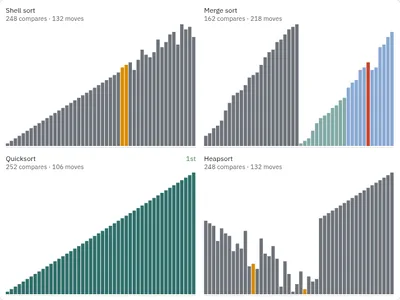
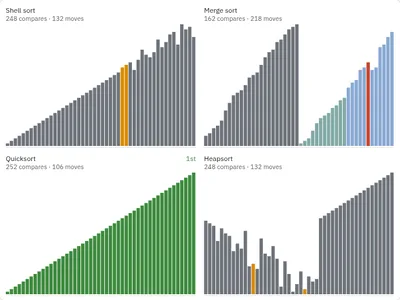
Sorted bars use the shared done colour; larger hash slots; fresh thumbnails

Changed region(s): [[0.0, 0.57, 0.51, 0.99]]

diff --git a/src/demos/structures/hash-table.ts b/src/demos/structures/hash-table.ts
@@ -85,13 +85,13 @@ export const mount: Mount = (root, entry) => {
     const chained = scheme() === 'chain';
     const box = { x: pad, y: pad + 4, w: width - 2 * pad, h: height - 2 * pad - 4 };
     if (!chained) {
-      const probe = cellGrid(frame.m, box, 26, 52);
+      const probe = cellGrid(frame.m, box, 26, 64);
       // Centre the block of rows vertically.
       const grid = cellGrid(
         frame.m,
         { ...box, y: box.y + Math.max(0, (box.h - probe.height) / 2) },
         26,
-        52,
+        64,
       );
       drawCells(
         g,

diff --git a/src/demos/sorting/sorting.ts b/src/demos/sorting/sorting.ts
@@ -226,7 +226,8 @@ export const mount: Mount = (root, entry) => {
         'color-mix(in srgb, var(--canvas-series-1) 60%, var(--canvas-bg))',
         'Range or run in work (one colour each)',
       ],
-      ['var(--canvas-accent)', 'Sorted, and bucket tallies'],
+      ['var(--canvas-good)', 'Sorted'],
+      ['var(--canvas-accent)', 'Bucket tallies'],
     ]),
   );
 

diff --git a/src/demos/sorting/render.ts b/src/demos/sorting/render.ts
@@ -91,7 +91,7 @@ export function drawSort(
     return last.type === 'compare' || last.type === 'read' ? palette.compare : palette.change;
   };
   const base = (i: number) =>
-    done ? palette.accent : group[i] >= 0 ? tints[group[i]] : palette.muted;
+    done ? palette.good : group[i] >= 0 ? tints[group[i]] : palette.muted;
 
   if (mode === 'wheel') {
     drawWheel(

diff --git a/src/demos/sorting/sorting-race.ts b/src/demos/sorting/sorting-race.ts
@@ -213,7 +213,8 @@ export const mount: Mount = (root, entry) => {
     legend([
       ['var(--canvas-compare)', 'Compared or read'],
       ['var(--canvas-change)', 'Swapped or written'],
-      ['var(--canvas-accent)', 'Sorted, and bucket tallies'],
+      ['var(--canvas-good)', 'Sorted'],
+      ['var(--canvas-accent)', 'Bucket tallies'],
     ]),
   );
 
